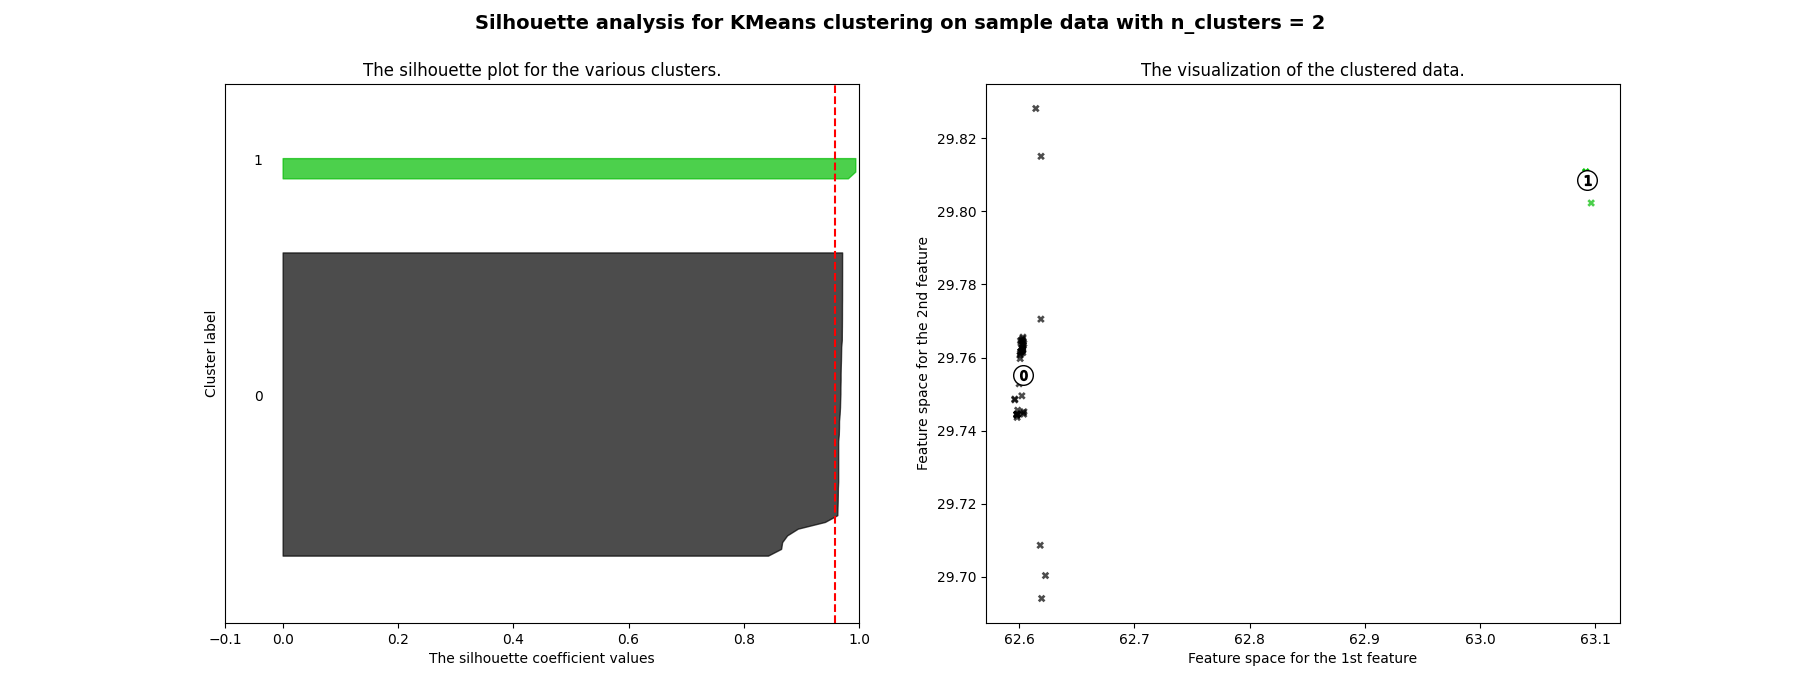
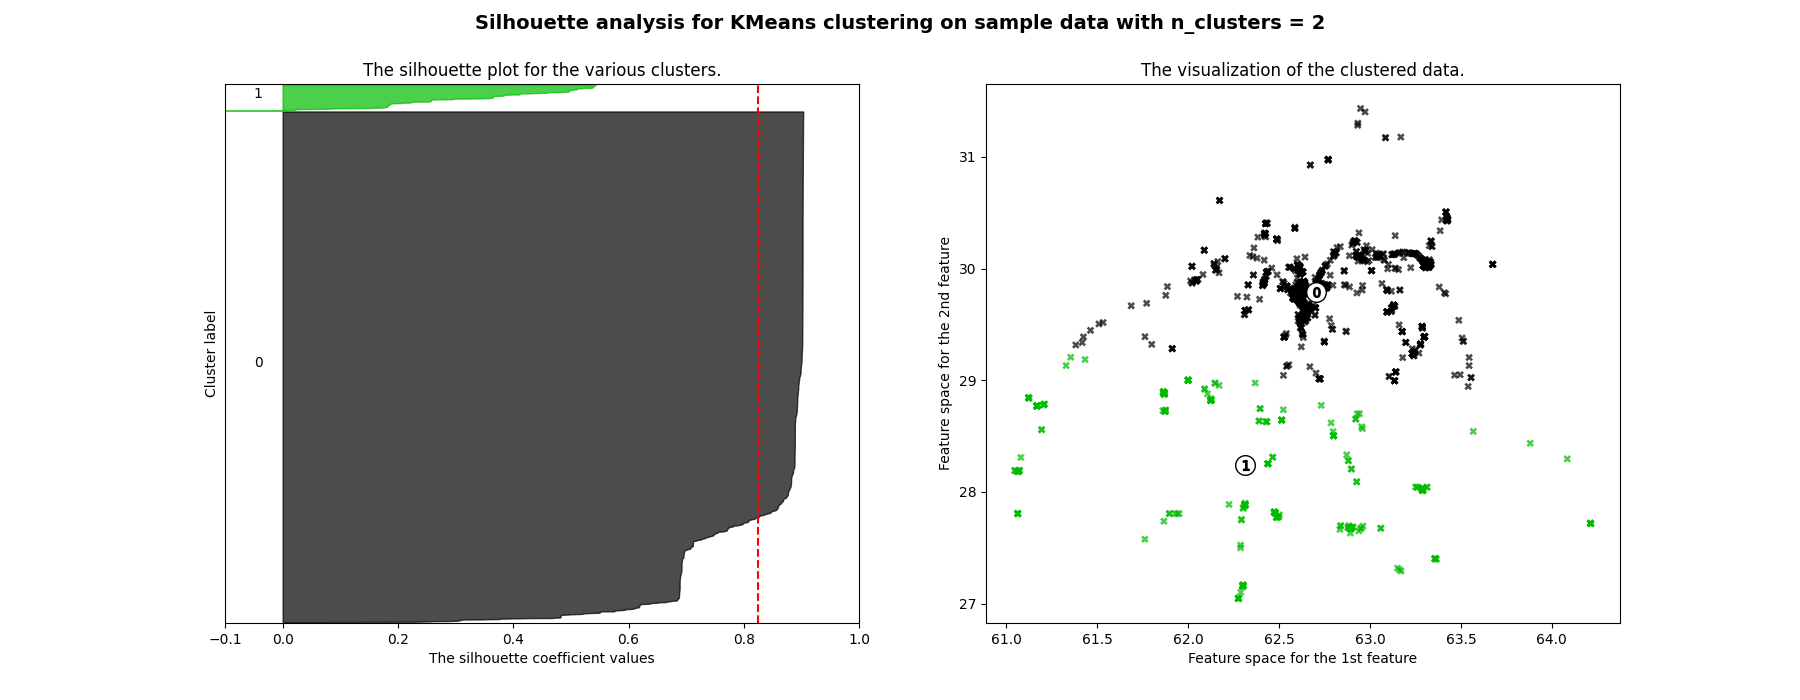
Updated script and results

diff --git a/vaccines_distribution.py b/vaccines_distribution.py
@@ -11,137 +11,137 @@ from docplex.cp.model import CpoModel
 from sklearn.metrics import silhouette_samples, silhouette_score
 from scipy.spatial import distance_matrix
 
-
 N_RANGE = [2, 3, 4, 5, 6]
 PRIORITIES = [1, 2, 3, 4, 5]
 POPULATION_PATH = r"MopsiLocations2012-Joensuu.csv"
-# LIB_OPTIMIZER = r'C:\Program Files\IBM\ILOG\CPLEX_Studio_Community201\cpoptimizer\bin\x64_win64\cpoptimizer.exe'
-LIB_OPTIMIZER = r'/Applications/CPLEX_Studio201/cpoptimizer/bin/x86-64_osx/cpoptimizer'
-HOSPITAL_PATH = r'hospitals.csv'
+LIB_OPTIMIZER = r'C:\Program Files\IBM\ILOG\CPLEX_Studio_Community201\cpoptimizer\bin\x64_win64\cpoptimizer.exe'
+# LIB_OPTIMIZER = r'/Applications/CPLEX_Studio201/cpoptimizer/bin/x86-64_osx/cpoptimizer'
+# HOSPITAL_PATH = r'hospitals.csv'
+HOSPITAL_PATH = r'hospitals2.csv'
 N_HOSPITALS = 10
-ITERATIONS = 5
-BASE_PLOTS_DIR = os.path.join("plots","pd-vdm")
+ITERATIONS = 20
+BASE_PLOTS_DIR = os.path.join("plots", "pd-vdm")
 OPTIMIZED_PLOTS_DIR = os.path.join("plots", "pd-vdm-o")
 
 
 def plot_map(population, hospitals, priorities, save_to):
-  fig, axes = plt.subplots(figsize=(10,10))
-  axes.scatter(population[:,0], population[:,1], color="black",
-               s=((priorities+3)*(priorities+3))*2, label="Population",
-               alpha=0.6)
-  axes.scatter(hospitals[:,0], hospitals[:,1], color="red", marker="X", label="Hospitals")
-  plt.title("Population & Hospital Distribution")
-  plt.xlabel("Longitude")
-  plt.ylabel("Latitude")
-  plt.legend()
-  plt.savefig(os.path.join(save_to, "Map.png"))
-  # plt.show()
+    fig, axes = plt.subplots(figsize=(10, 10))
+    axes.scatter(population[:, 0], population[:, 1], color="black",
+                 s=((priorities + 3) * (priorities + 3)) * 2, label="Population",
+                 alpha=0.6)
+    axes.scatter(hospitals[:, 0], hospitals[:, 1], color="red", marker="X", label="Hospitals")
+    plt.title("Population & Hospital Distribution")
+    plt.xlabel("Longitude")
+    plt.ylabel("Latitude")
+    plt.legend()
+    plt.savefig(os.path.join(save_to, "Map.png"))
+    # plt.show()
 
 
 def plot_distribution(priorities, save_to):
-  fig, axes = plt.subplots(figsize=(10,10))
-  distribution = [np.count_nonzero(priorities == priority) for priority in PRIORITIES]
-  bar = axes.bar(PRIORITIES, distribution, align="center", color="dimgray")
-  for rect in bar:
-      height = rect.get_height()
-      axes.text(rect.get_x() + rect.get_width() / 2, height + .5, str(height), ha="center", va="top")
-  plt.title("Priority Distribution")
-  plt.xlabel("Priority Level")
-  plt.savefig(os.path.join(save_to, "Priorities.png"))
-  # plt.show()
+    fig, axes = plt.subplots(figsize=(10, 10))
+    distribution = [np.count_nonzero(priorities == priority) for priority in PRIORITIES]
+    bar = axes.bar(PRIORITIES, distribution, align="center", color="dimgray")
+    for rect in bar:
+        height = rect.get_height()
+        axes.text(rect.get_x() + rect.get_width() / 2, height + .5, str(height), ha="center", va="top")
+    plt.title("Priority Distribution")
+    plt.xlabel("Priority Level")
+    plt.savefig(os.path.join(save_to, "Priorities.png"))
+    # plt.show()
 
 
 def print_solution(solution, DCs, staff, iterations):
-  T = iterations
-  for t in range(T):
-    print(f"Iteration: {t}")
-    for i in range(len(DCs)):
-      print(f"\tHospital vaccinations {i}:")
-      for j in range(staff[i]):
-        # print(sum(staff_vaccinations))
-        print("\t\t",solution[t][i][j])
+    T = iterations
+    for t in range(T):
+        print(f"Iteration: {t}")
+        for i in range(len(DCs)):
+            print(f"\tHospital vaccinations {i}:")
+            for j in range(staff[i]):
+                # print(sum(staff_vaccinations))
+                print("\t\t", solution[t][i][j])
 
 
 def plot_solution(solution, DCs, population, staff, iterations, priorities, save_to):
-  fig, axes = plt.subplots(figsize=(10,10))
-  colors = ["tab:blue", "tab:orange", "tab:green", "tab:red", "tab:purple", "tab:brown"]
-  population = np.array(population)
-  DCs = np.array(DCs)
-  axes.scatter(population[:,0], population[:,1], color="black",
-               s=((priorities+3)*(priorities+3))*2, label="Population",
-               alpha=0.6)
-  for index in range(len(DCs)):
-    axes.scatter(np.array(DCs)[index,0], np.array(DCs)[index,1],
-                 color=colors[index], marker="X")
-  for t in range(iterations):
-    for i in range(len(DCs)):
-      for j in range(staff[i]):
-        for k in range(len(population)):
-          if solution[t][i][j][k]:
-            axes.plot([DCs[i][0],population[k][0]], [DCs[i][1], population[k][1]], color=colors[i])
-  plt.title("Vaccine Distribution")
-  plt.xlabel("Longitude")
-  plt.ylabel("Latitude")
-  plt.savefig(os.path.join(save_to, "Solution.png"))
-  # plt.show()
+    fig, axes = plt.subplots(figsize=(10, 10))
+    colors = ["tab:blue", "tab:orange", "tab:green", "tab:red", "tab:purple", "tab:brown"]
+    population = np.array(population)
+    DCs = np.array(DCs)
+    axes.scatter(population[:, 0], population[:, 1], color="black",
+                 s=((priorities + 3) * (priorities + 3)) * 2, label="Population",
+                 alpha=0.6)
+    for index in range(len(DCs)):
+        axes.scatter(np.array(DCs)[index, 0], np.array(DCs)[index, 1],
+                     color=colors[index], marker="X")
+    for t in range(iterations):
+        for i in range(len(DCs)):
+            for j in range(staff[i]):
+                for k in range(len(population)):
+                    if solution[t][i][j][k]:
+                        axes.plot([DCs[i][0], population[k][0]], [DCs[i][1], population[k][1]], color=colors[i])
+    plt.title("Vaccine Distribution")
+    plt.xlabel("Longitude")
+    plt.ylabel("Latitude")
+    plt.savefig(os.path.join(save_to, "Solution.png"))
+    # plt.show()
 
 
 def get_clusters(clustering_class, data, save_to, range_n_clusters=None):
-  if range_n_clusters is None:
-      range_n_clusters = N_RANGE
-  scores = []
-  all_centers = []
-  for n_clusters in range_n_clusters:
-    fig, (ax1, ax2) = plt.subplots(1, 2)
-    fig.set_size_inches(18, 7)
-    ax1.set_xlim([-0.1, 1])
-    ax1.set_ylim([0, len(data) + (n_clusters + 1) * 10])
-    clusterer = clustering_class(n_clusters=n_clusters, random_state=10)
-    cluster_labels = clusterer.fit_predict(data)
-    silhouette_avg = silhouette_score(data, cluster_labels)
-    scores.append(silhouette_avg)
-    print("For n_clusters =", n_clusters,
-          "The average silhouette_score is :", silhouette_avg)
-    sample_silhouette_values = silhouette_samples(data, cluster_labels)
-    y_lower = 10
-    for i in range(n_clusters):
-        ith_cluster_silhouette_values = \
-            sample_silhouette_values[cluster_labels == i]
-        ith_cluster_silhouette_values.sort()
-        size_cluster_i = ith_cluster_silhouette_values.shape[0]
-        y_upper = y_lower + size_cluster_i
-        color = cm.nipy_spectral(float(i) / n_clusters)
-        ax1.fill_betweenx(np.arange(y_lower, y_upper),
-                          0, ith_cluster_silhouette_values,
-                          facecolor=color, edgecolor=color, alpha=0.7)
-        ax1.text(-0.05, y_lower + 0.5 * size_cluster_i, str(i))
-        y_lower = y_upper + 10
-    ax1.set_title("The silhouette plot for the various clusters.")
-    ax1.set_xlabel("The silhouette coefficient values")
-    ax1.set_ylabel("Cluster label")
-    ax1.axvline(x=silhouette_avg, color="red", linestyle="--")
-    ax1.set_yticks([])
-    ax1.set_xticks([-0.1, 0, 0.2, 0.4, 0.6, 0.8, 1])
-    colors = cm.nipy_spectral(cluster_labels.astype(float) / n_clusters)
-    ax2.scatter(data[:, 0], data[:, 1], marker='X', s=30, lw=0, alpha=0.7,
-                c=colors, edgecolor='k')
-    centers = clusterer.cluster_centers_
-    ax2.scatter(centers[:, 0], centers[:, 1], marker='o',
-                c="white", alpha=1, s=200, edgecolor='k')
-    for i, c in enumerate(centers):
-        ax2.scatter(c[0], c[1], marker='$%d$' % i, alpha=1,
-                    s=50, edgecolor='k')
-    ax2.set_title("The visualization of the clustered data.")
-    ax2.set_xlabel("Feature space for the 1st feature")
-    ax2.set_ylabel("Feature space for the 2nd feature")
-    plt.suptitle(("Silhouette analysis for KMeans clustering on sample data "
-                  "with n_clusters = %d" % n_clusters),
-                  fontsize=14, fontweight='bold')
-    all_centers.append(centers)
-    plt.savefig(os.path.join(save_to, "Cluster_{}.png".format(i)))
-    plt.close()
-  # plt.show()
-  return scores, all_centers
+    if range_n_clusters is None:
+        range_n_clusters = N_RANGE
+    scores = []
+    all_centers = []
+    for n_clusters in range_n_clusters:
+        fig, (ax1, ax2) = plt.subplots(1, 2)
+        fig.set_size_inches(18, 7)
+        ax1.set_xlim([-0.1, 1])
+        ax1.set_ylim([0, len(data) + (n_clusters + 1) * 10])
+        clusterer = clustering_class(n_clusters=n_clusters, random_state=10)
+        cluster_labels = clusterer.fit_predict(data)
+        silhouette_avg = silhouette_score(data, cluster_labels)
+        scores.append(silhouette_avg)
+        print("For n_clusters =", n_clusters,
+              "The average silhouette_score is :", silhouette_avg)
+        sample_silhouette_values = silhouette_samples(data, cluster_labels)
+        y_lower = 10
+        for i in range(n_clusters):
+            ith_cluster_silhouette_values = \
+                sample_silhouette_values[cluster_labels == i]
+            ith_cluster_silhouette_values.sort()
+            size_cluster_i = ith_cluster_silhouette_values.shape[0]
+            y_upper = y_lower + size_cluster_i
+            color = cm.nipy_spectral(float(i) / n_clusters)
+            ax1.fill_betweenx(np.arange(y_lower, y_upper),
+                              0, ith_cluster_silhouette_values,
+                              facecolor=color, edgecolor=color, alpha=0.7)
+            ax1.text(-0.05, y_lower + 0.5 * size_cluster_i, str(i))
+            y_lower = y_upper + 10
+        ax1.set_title("The silhouette plot for the various clusters.")
+        ax1.set_xlabel("The silhouette coefficient values")
+        ax1.set_ylabel("Cluster label")
+        ax1.axvline(x=silhouette_avg, color="red", linestyle="--")
+        ax1.set_yticks([])
+        ax1.set_xticks([-0.1, 0, 0.2, 0.4, 0.6, 0.8, 1])
+        colors = cm.nipy_spectral(cluster_labels.astype(float) / n_clusters)
+        ax2.scatter(data[:, 0], data[:, 1], marker='X', s=30, lw=0, alpha=0.7,
+                    c=colors, edgecolor='k')
+        centers = clusterer.cluster_centers_
+        ax2.scatter(centers[:, 0], centers[:, 1], marker='o',
+                    c="white", alpha=1, s=200, edgecolor='k')
+        for i, c in enumerate(centers):
+            ax2.scatter(c[0], c[1], marker='$%d$' % i, alpha=1,
+                        s=50, edgecolor='k')
+        ax2.set_title("The visualization of the clustered data.")
+        ax2.set_xlabel("Feature space for the 1st feature")
+        ax2.set_ylabel("Feature space for the 2nd feature")
+        plt.suptitle(("Silhouette analysis for KMeans clustering on sample data "
+                      "with n_clusters = %d" % n_clusters),
+                     fontsize=14, fontweight='bold')
+        all_centers.append(centers)
+        plt.savefig(os.path.join(save_to, "Cluster_{}.png".format(i)))
+        plt.close()
+    # plt.show()
+    return scores, all_centers
 
 
 def run_cplex(DCs, priorities, population, staff, vaccines, distances, iterations, alpha=1, beta=1, gamma=1):
@@ -163,7 +163,7 @@ def run_cplex(DCs, priorities, population, staff, vaccines, distances, iteration
                                      for t in range(T) for i in range(len(DCs)) for j in range(staff[i]) for k in
                                      range(len(population)))))
         print("\nSolving model....")
-        msol = mdl.solve(TimeLimit=10, execfile=LIB_OPTIMIZER)
+        msol = mdl.solve(TimeLimit=3600, execfile=LIB_OPTIMIZER)
         if msol:
             print("Solution status: " + msol.get_solve_status())
             return msol, x
@@ -187,7 +187,7 @@ def copy_solution(msol, x, iterations, DCs, staff, population):
     return solution
 
 
-def evaluate_solutions(solution, iterations, DCs, staff, population):
+def evaluate_solutions(solution, iterations, DCs, staff, population, save_as="result"):
     distances = []
     vaccinated = []
     for t in range(iterations):
@@ -199,9 +199,11 @@ def evaluate_solutions(solution, iterations, DCs, staff, population):
                             math.sqrt((DCs[i][0] - population[k][0]) ** 2 + (DCs[i][1] - population[k][1]) ** 2))
                         vaccinated.append(k)
     distances = np.array(distances)
-    print("MIN: {}\nMAX: {}\nMEAN: {}\nSTD: {}\nTOTAL: {}".format(np.min(distances), np.max(distances),
-                                                                  np.mean(distances), np.std(distances),
-                                                                  np.sum(distances)))
+    result = "MIN: {}\nMAX: {}\nMEAN: {}\nSTD: {}\nTOTAL: {}".format(np.min(distances), np.max(distances),
+                                                                     np.mean(distances), np.std(distances),
+                                                                     np.sum(distances))
+    with open(save_as, "w") as fd:
+        fd.write(result)
     return vaccinated
 
 
@@ -232,7 +234,7 @@ def plot_vaccinations(vaccinated, population, priorities, save_to):
 
 
 if __name__ == '__main__':
-    population = pd.read_csv(POPULATION_PATH, header=None, delimiter=" ", dtype=float).to_numpy()[:50]
+    population = pd.read_csv(POPULATION_PATH, header=None, delimiter=" ", dtype=float).to_numpy()
     hospitals = pd.read_csv(HOSPITAL_PATH, header=None, delimiter=" ", dtype=float).to_numpy()
     priorities = np.random.randint(low=min(PRIORITIES), high=max(PRIORITIES) + 1, size=len(population))
     staff = np.random.randint(low=1, high=2, size=len(hospitals))
@@ -259,7 +261,7 @@ if __name__ == '__main__':
 
     plot_solution(solution_base, DCs_base, population, staff, ITERATIONS, priorities, BASE_PLOTS_DIR)
 
-    vaccinated = evaluate_solutions(solution_base, ITERATIONS, DCs_base, staff, population,)
+    vaccinated = evaluate_solutions(solution_base, ITERATIONS, DCs_base, staff, population, "result_base.txt")
 
     plot_vaccinations(vaccinated, population, priorities, BASE_PLOTS_DIR)
 
@@ -270,7 +272,12 @@ if __name__ == '__main__':
     distances_optimized = distance_matrix(centroids, hospitals)
     DCs_optimized = []
     for row in range(len(distances_optimized)):
-        DCs_optimized.append(np.argmin(distances_optimized[row]))
+        best_index = np.argsort(distances_optimized[row])[0]
+        count = 0
+        while best_index in DCs_optimized:
+            count += 1
+            best_index = np.argsort(distances_optimized[row])[count]
+        DCs_optimized.append(best_index)
     DCs_optimized = hospitals[DCs_optimized]
     distances_optimized = distance_matrix(population, DCs_optimized)
     plot_map(population, DCs_optimized, priorities, OPTIMIZED_PLOTS_DIR)
@@ -284,6 +291,7 @@ if __name__ == '__main__':
 
     plot_solution(solution_optimized, DCs_optimized, population, staff, ITERATIONS, priorities, OPTIMIZED_PLOTS_DIR)
 
-    vaccinated = evaluate_solutions(solution_optimized, ITERATIONS, DCs_optimized, staff, population)
+    vaccinated = evaluate_solutions(solution_optimized, ITERATIONS, DCs_optimized, staff, population,
+                                    "result_optimized.txt")
 
     plot_vaccinations(vaccinated, population, priorities, OPTIMIZED_PLOTS_DIR)
